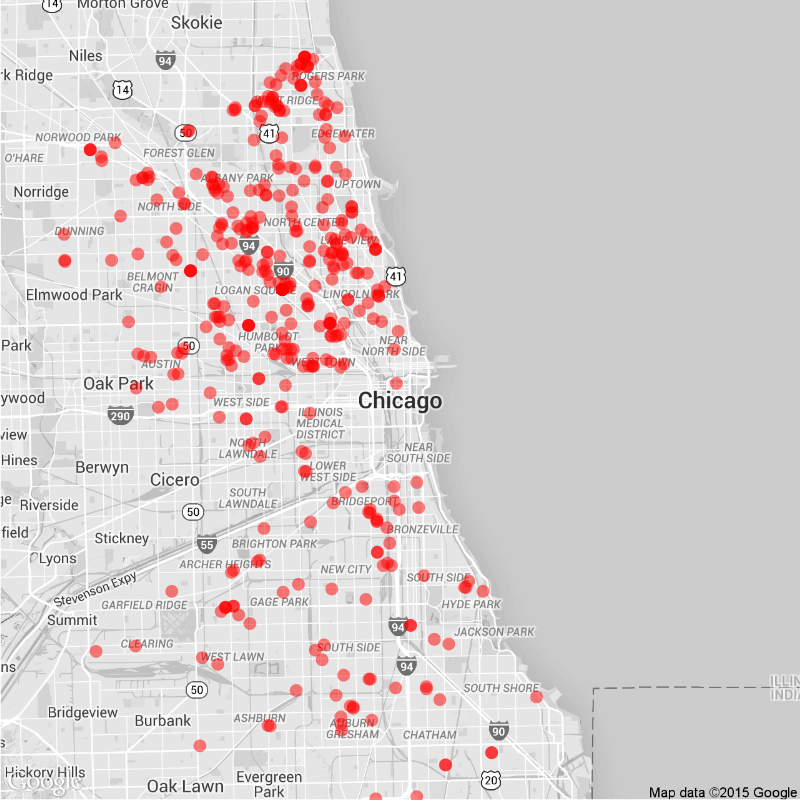
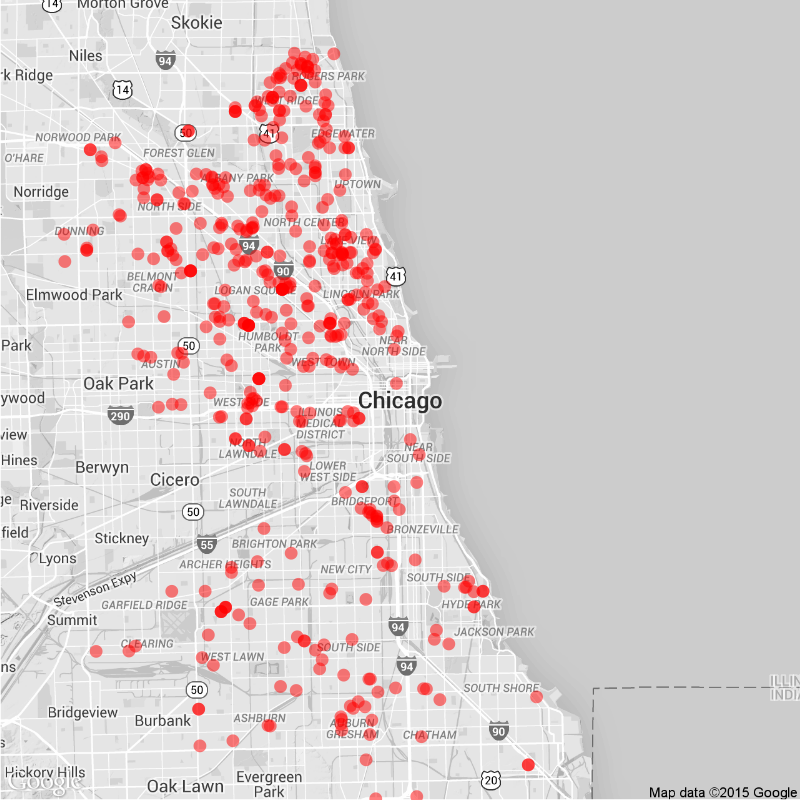
Daily Maps

diff --git a/daily.md b/daily.md
@@ -15,11 +15,11 @@ tags: Chicago NYC weekly daily rats
 
 ### Daily
 
-Yesterday (March 24), there were 0 calls to Chicago's 311 line about rats.
+Yesterday (March 25), there were 83 calls to Chicago's 311 line about rats.
 ![Chicago rat calls to 311 weekly map]({{ site.cityimages }}/daily/Chicago_Rat_Map_Daily.png)
 
 ### Weekly
-Between March 18 and March 24, there were 413 calls to Chicago's 311 line about rats. The average number of weekly calls for this time of year is 580.
+Between March 19 and March 25, there were 488 calls to Chicago's 311 line about rats. The average number of weekly calls for this time of year is 580.
 ![Chicago rat calls to 311 weekly map]({{ site.cityimages }}/daily/Chicago_Rat_Map_Weekly.png)
 
 Each red dot represents one call about a rat seen in that location. The dots are transparent, so multiple calls from one location will be seen as a solid dot. The usual caveats apply: more calls do not necessarily mean that there are more rats in that location than other parts of the city. A cluster of dots could indicate that one resident is unusually vocal about rodents in his or her neighborhood. Also, more densely populated neighborhoods tend to make more calls to 311.
